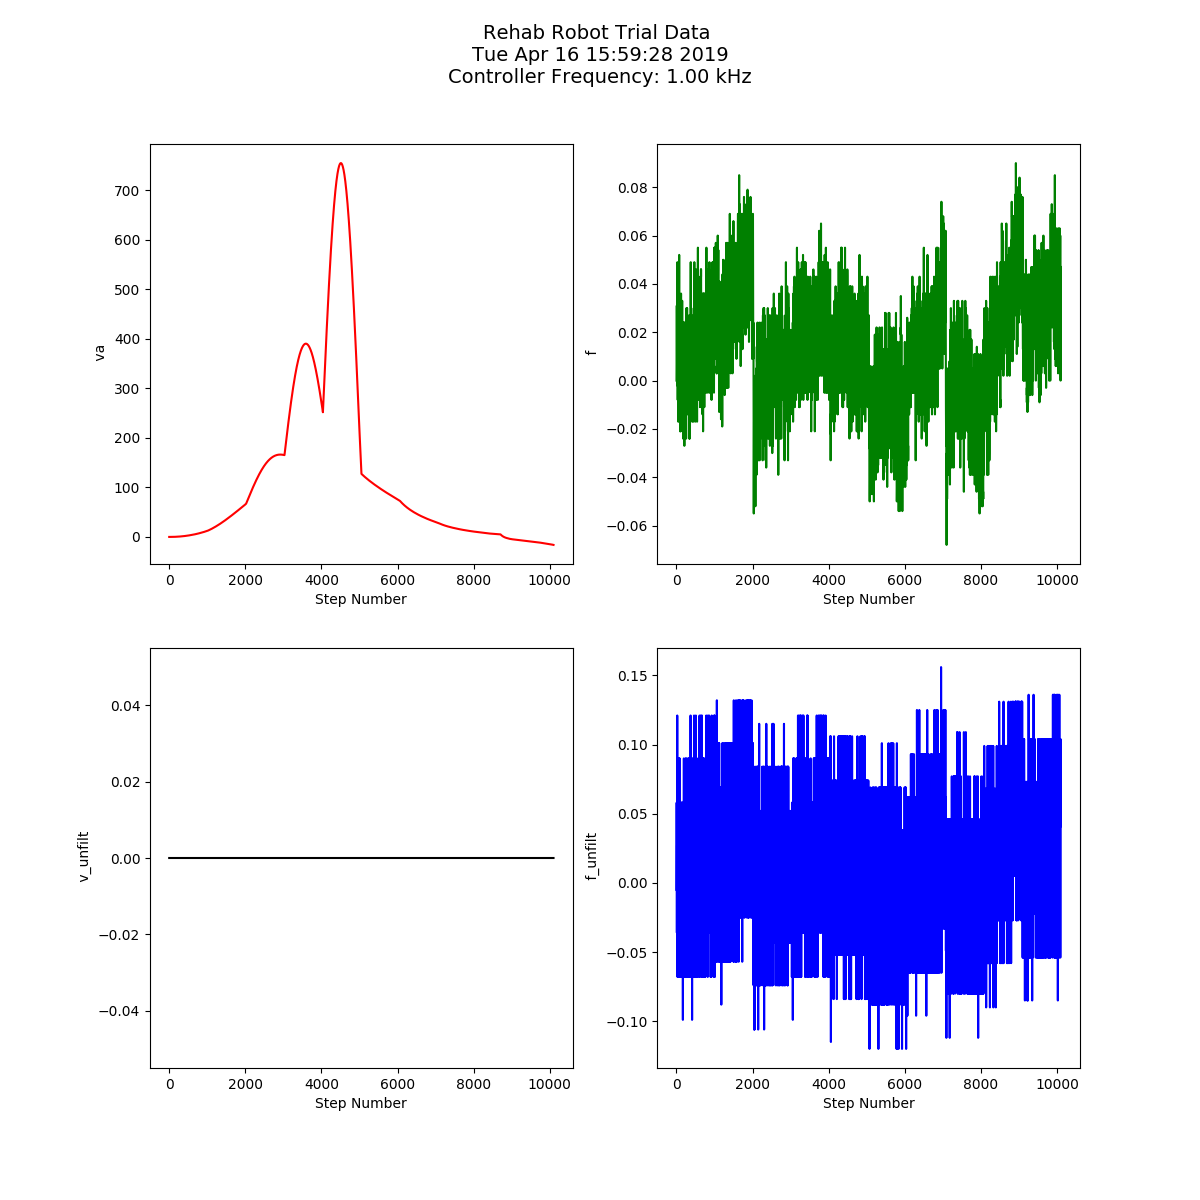
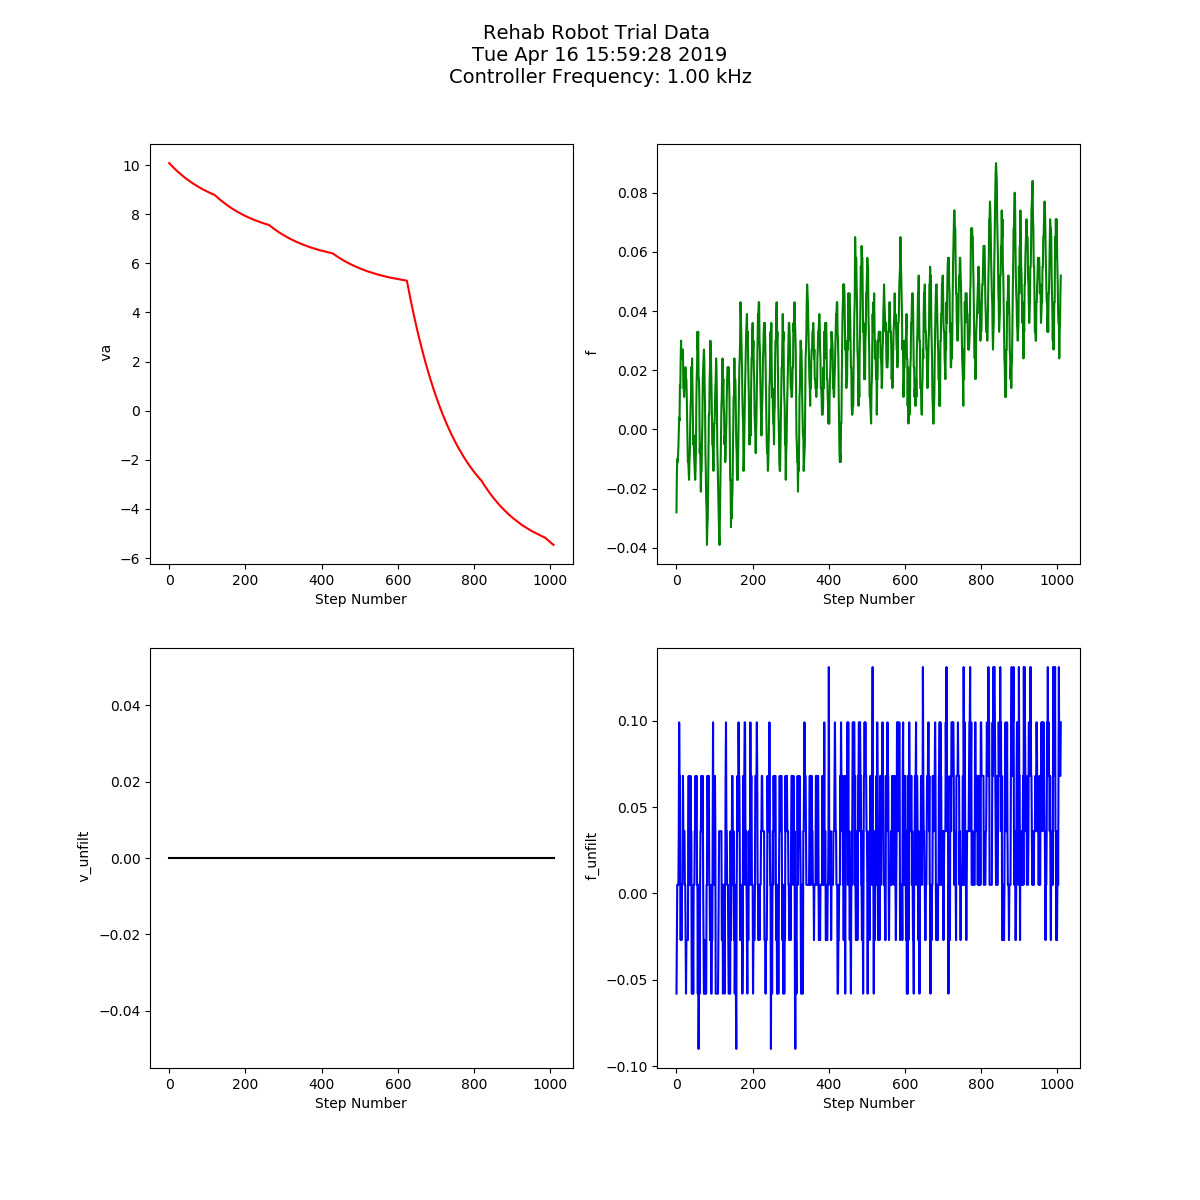
added stage select to plotting

diff --git a/controller/data/data_test_plot.py b/controller/data/data_test_plot.py
@@ -11,6 +11,9 @@ colours = ['blue','red','black','green','blue','red','black','green','blue','red
 time = ""
 freq = ""
 
+num_of_stages = int(sys.argv[2]) #total number of stages / experiments
+stage_number = int(sys.argv[3]) - 1 #stage number to plot
+
 #read data csv 
 #with open('Fri_Feb_22_09-58-22_2019_data.txt', 'r') as csvfile:
 with open(str(sys.argv[1]), 'r') as csvfile: #open file given as cmd line argument
@@ -22,38 +25,48 @@ with open(str(sys.argv[1]), 'r') as csvfile: #open file given as cmd line argume
 	#read header (second line)
 	header = next(data)
 	data_len = int(len(header))
-	y = [[] for j in range(data_len)]
-	ylabel = [['No Label Found'] for jj in range(data_len)]
+	y = [[[] for j in range(data_len)] for k in range(num_of_stages)]
+	ylabel = [['No Label Found'] for jj in range(data_len)] 
 	i = 0
 	for point in header:
 		ylabel[i] = point
 		i = i + 1
 
 	#read data 
+	j = 0
 	for row in data:
 		i = 0
+		
 		if row[0].isdigit():
+			check = 0;
 			for point in row:
-				y[i].append(float(point))
+				check = 1
+				y[j][i].append(float(point))
 				i = i + 1
+		else: 
+			j = j + 1
+			print("break")
 			
-step_time = [[] for j in range(len(y[0]))]
+step_time = [[] for j in range(len(y[0][0]))]
 step_time[0] = 0
-for i in range(len(y[0])-1):
-	step_time[i+1] = 1000*(y[0][i+1] - y[0][i]) + (y[1][i+1] - y[1][i])/1000000
 
-y[1] = step_time
+print(len(y[stage_number][1])-1)
 
-avg_step = sum(y[1])/len(y[1])
+for i in range(len(y[stage_number][0])-1):
+	step_time[i+1] = 1000*(y[stage_number][0][i+1] - y[stage_number][0][i]) + (y[stage_number][1][i+1] - y[stage_number][1][i])/1000000
+
+y[stage_number][1] = step_time
+
+avg_step = sum(y[stage_number][1])/len(y[stage_number][1])
 print('Average step time (ms): ' + str(avg_step))
 
 filt_order = 15
-v_filt = [[] for j in range(len(y[3]) - filt_order)]
-for i in range(len(y[3]) - filt_order):
+v_filt = [[] for j in range(len(y[stage_number][3]) - filt_order)]
+for i in range(len(y[stage_number][3]) - filt_order):
 	end = i+filt_order-1
-	v_filt[i] = sum(y[3][i:i+filt_order-1]) / float(filt_order)
+	v_filt[i] = sum(y[stage_number][3][i:i+filt_order-1]) / float(filt_order)
 
-y[4] = v_filt
+y[stage_number][4] = v_filt
 
 
 
@@ -77,11 +90,10 @@ while(data_len > 0):
 
 	for i in range(index):
 		
-
 		ax = plt.subplot(gs[i%2,int(math.floor(i/2))])
 		ax.set_xlabel('Step Number')
 		ax.set_ylabel(ylabel[j])
-		ax.plot(y[j], color=colours[j])
+		ax.plot(y[stage_number][j], color=colours[j])
 		data_len = data_len - 1
 		j = j + 1
 

diff --git a/controller/imp_main.c b/controller/imp_main.c
@@ -700,7 +700,7 @@ void *controller(void * d)
 
 		if(temp_counter > max_count) 
 		{
-			fprintf (imp_cont->fp, "Time(s), Time(ns), x, xa, v, va, v_unfilt, f, f_unfilt, xdes, vdes, cmd, LSB, LSF\n"); //print header
+			fprintf (imp_cont->fp, "End_stage\n"); //print header
 			pthread_mutex_unlock(&lock[0]);
 			break;
 		}
